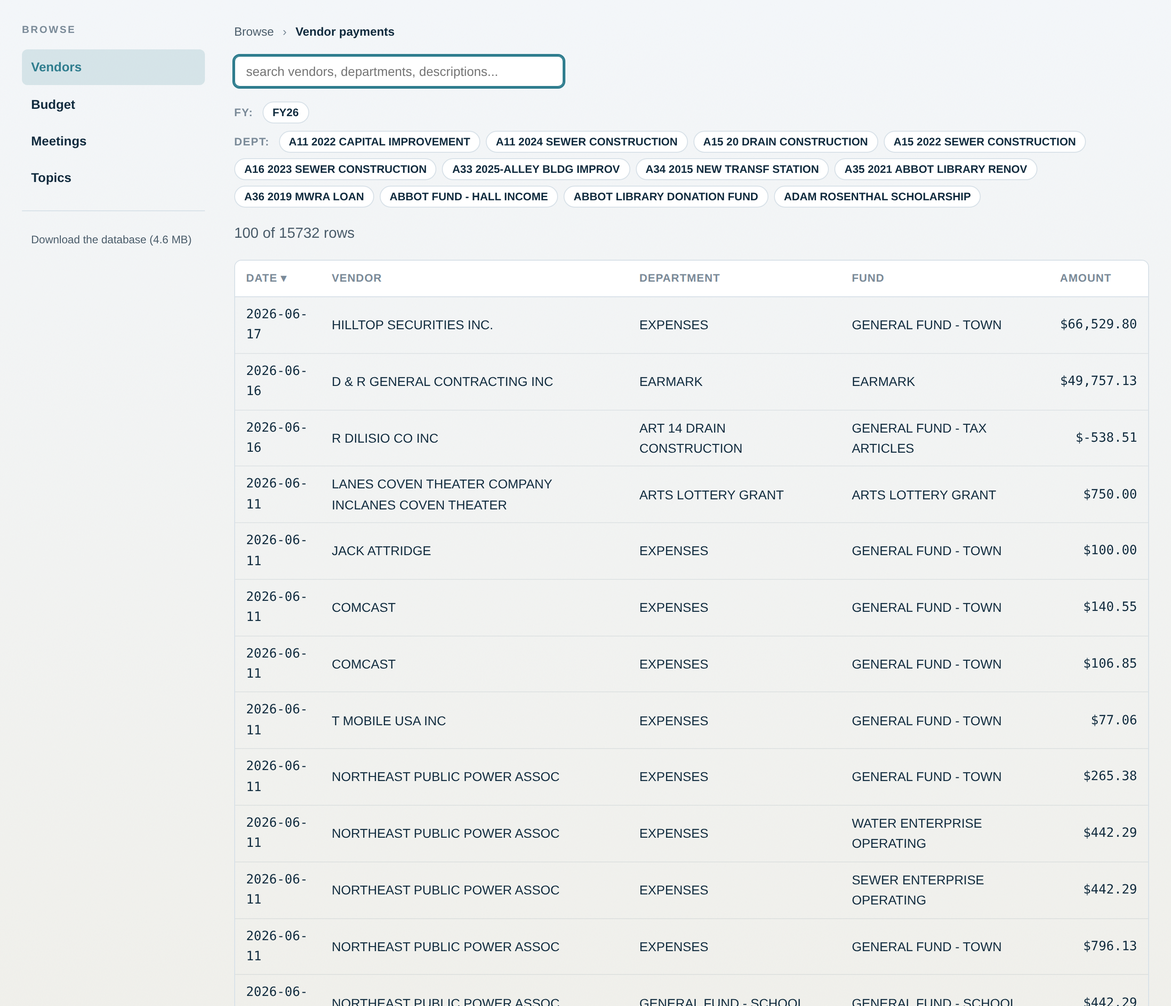
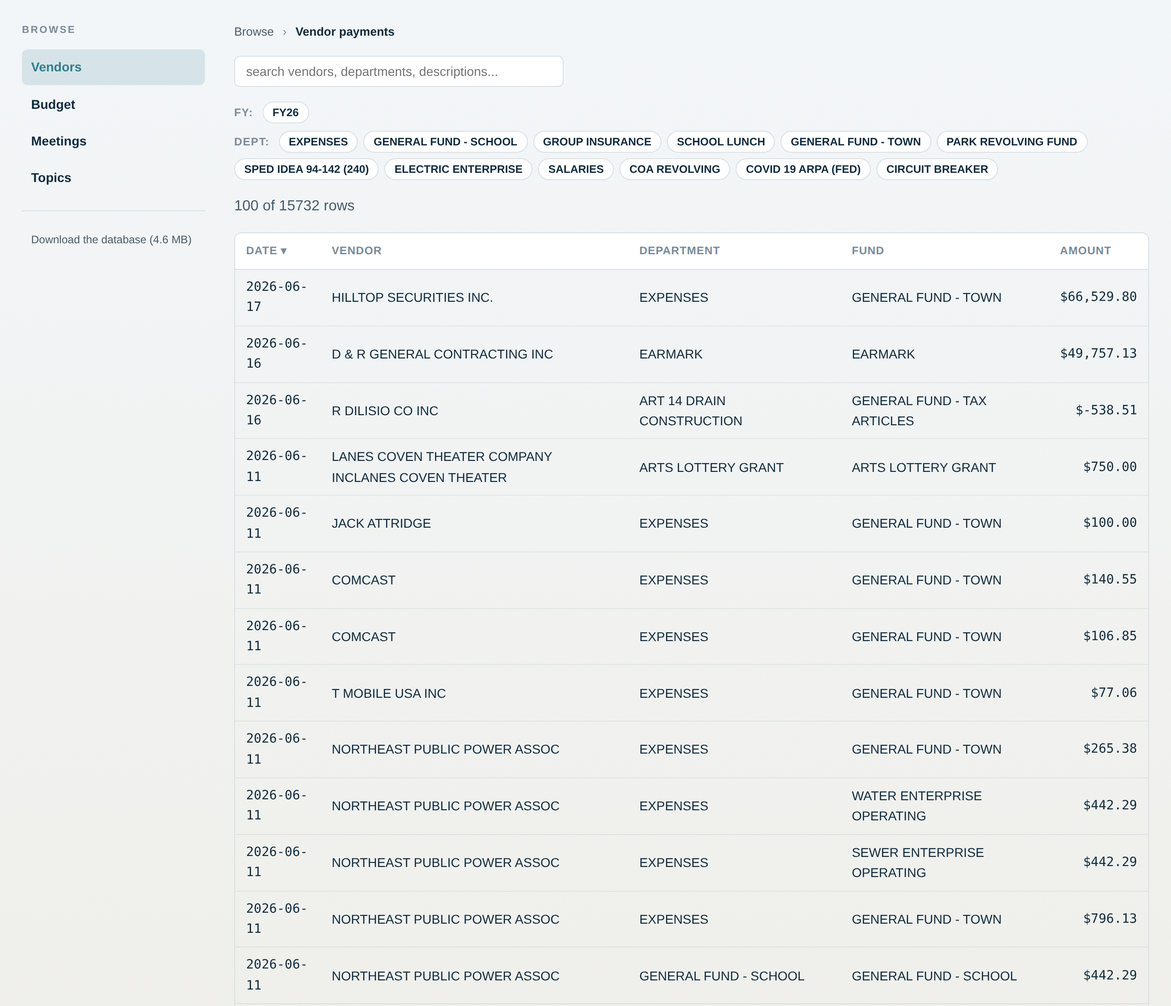
Fix browse.js topN filter ordering to use row count, not alphabetical
When a filter has topN: N set (vendors Dept chips), the chip values
should be the N most frequent values, not the alphabetically-first
N. Switches the query to GROUP BY + ORDER BY COUNT(*) DESC LIMIT N
when topN is present.

Result: Dept chips on /browse/vendors/ now surface high-volume
departments (EXPENSES, GROUP INSURANCE, ELECTRIC ENTERPRISE, etc.)
instead of A-prefixed capital project funds.

Generated with [Claude Code](https://claude.ai/code)
via [Happy](https://happy.engineering)

diff --git a/assets/browse.js b/assets/browse.js
@@ -267,15 +267,27 @@
       // Fill in dynamic filter values from the DB.
       config.filters.forEach(function (filter) {
         if (filter.valuesFrom === "distinct") {
-          var stmt = db.prepare(
-            'SELECT DISTINCT "' + filter.column + '" AS v FROM "' +
-            config.table + '" WHERE "' + filter.column +
-            '" IS NOT NULL ORDER BY "' + filter.column + '"'
-          );
+          var stmt;
+          if (filter.topN) {
+            // Top-N by row count, descending.
+            stmt = db.prepare(
+              'SELECT "' + filter.column + '" AS v, COUNT(*) AS c FROM "' +
+              config.table + '" WHERE "' + filter.column +
+              '" IS NOT NULL GROUP BY "' + filter.column +
+              '" ORDER BY c DESC LIMIT ' + filter.topN
+            );
+          } else {
+            // All distinct values, alphabetical.
+            stmt = db.prepare(
+              'SELECT DISTINCT "' + filter.column + '" AS v FROM "' +
+              config.table + '" WHERE "' + filter.column +
+              '" IS NOT NULL ORDER BY "' + filter.column + '"'
+            );
+          }
           var vals = [];
           while (stmt.step()) vals.push(stmt.getAsObject().v);
           stmt.free();
-          filter.values = filter.topN ? vals.slice(0, filter.topN) : vals;
+          filter.values = vals;
         }
       });
 
